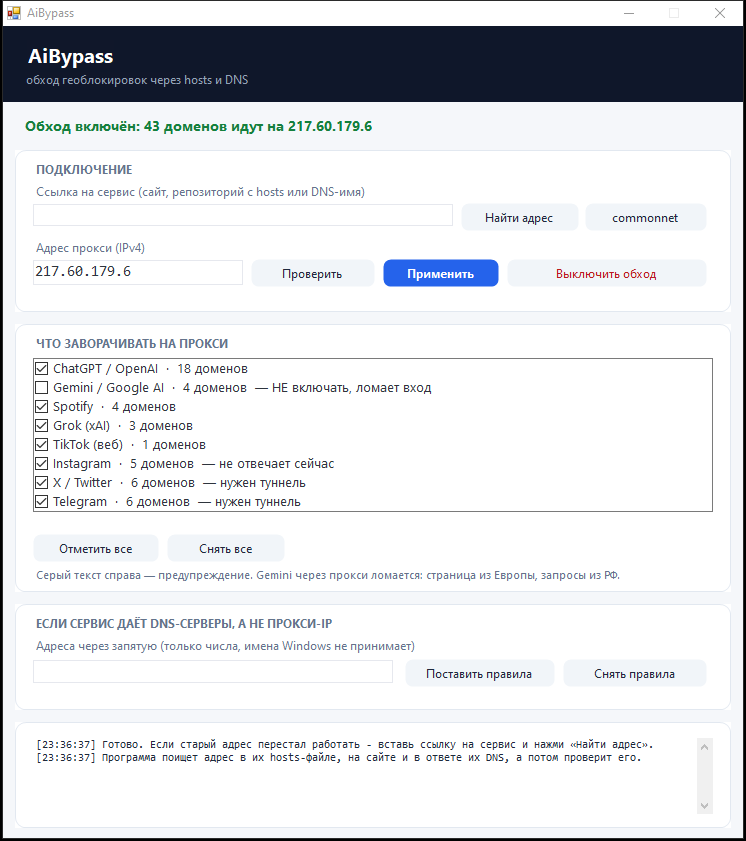
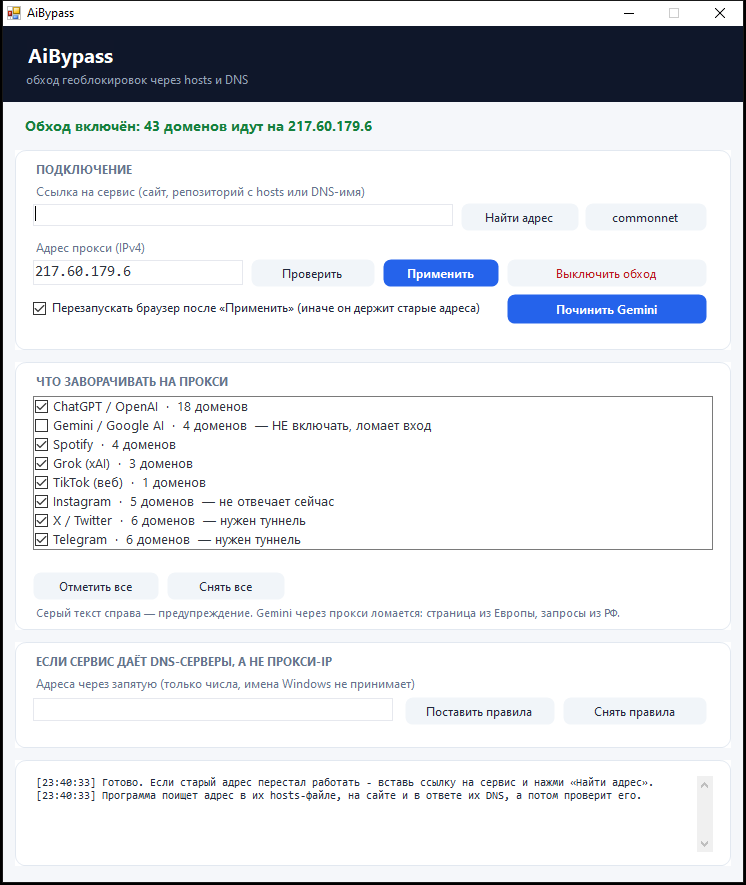
Перезапуск браузера из программы и кнопка «Починить Gemini»
Браузер держит свой DNS-кэш и пул соединений в памяти: после смены адресов он
продолжает ходить по старым, и ipconfig /flushdns этого не лечит. На телефоне
ту же работу делает режим полёта — на ПК её теперь делает программа:

- галочка «Перезапускать браузер после «Применить»» (включена по умолчанию)
- кнопка «Починить Gemini»: убрать Gemini из hosts, сбросить кэш DNS,
  перезапустить браузер, открыть gemini.google.com
- команды --fix-gemini, --restart-browser, --browsers
- закрываются Chrome, Edge, Firefox, Opera, Яндекс, Brave, Vivaldi:
  сначала CloseMainWindow, через 5 секунд Kill, потом запуск заново

Проверено на notepad (--restart-proc): процесс закрылся и запустился заново,
путь к exe определился. Браузер заказчика при проверке не трогал.

diff --git a/src/Gui.cs b/src/Gui.cs
@@ -139,12 +139,13 @@ namespace AiBypass
         private static TextBox dnsBox;
         private static TextBox log;
         private static CheckedListBox serviceList;
+        private static CheckBox restartBrowser;
 
         public static void Run()
         {
             form = new Form();
             form.Text = "AiBypass";
-            form.ClientSize = new Size(740, 812);
+            form.ClientSize = new Size(740, 856);
             form.StartPosition = FormStartPosition.CenterScreen;
             form.FormBorderStyle = FormBorderStyle.FixedSingle;
             form.MaximizeBox = false;
@@ -210,7 +211,7 @@ namespace AiBypass
         {
             CardPanel card = new CardPanel();
             card.Title = "ПОДКЛЮЧЕНИЕ";
-            card.SetBounds(12, 124, 716, 162);
+            card.SetBounds(12, 124, 716, 200);
             form.Controls.Add(card);
 
             Label l0 = new Label();
@@ -256,13 +257,27 @@ namespace AiBypass
             FlatButton bOff = MakeButton("Выключить обход", 492, 109, 200, 28, OnOff);
             bOff.TextColor = Theme.Danger;
             card.Controls.Add(bOff);
+
+            restartBrowser = new CheckBox();
+            restartBrowser.Text = "Перезапускать браузер после «Применить» (иначе он держит старые адреса)";
+            restartBrowser.SetBounds(18, 148, 460, 22);
+            restartBrowser.ForeColor = Theme.Text;
+            restartBrowser.Checked = true;
+            card.Controls.Add(restartBrowser);
+
+            FlatButton bFix = MakeButton("Починить Gemini", 492, 144, 200, 30, OnFixGemini);
+            bFix.FillNormal = Theme.Accent;
+            bFix.FillHover = Theme.AccentHover;
+            bFix.TextColor = Color.White;
+            bFix.Font = new Font("Segoe UI", 9f, FontStyle.Bold);
+            card.Controls.Add(bFix);
         }
 
         private static void BuildServicesCard()
         {
             CardPanel card = new CardPanel();
             card.Title = "ЧТО ЗАВОРАЧИВАТЬ НА ПРОКСИ";
-            card.SetBounds(12, 298, 716, 268);
+            card.SetBounds(12, 336, 716, 268);
             form.Controls.Add(card);
 
             serviceList = new CheckedListBox();
@@ -295,7 +310,7 @@ namespace AiBypass
         {
             CardPanel card = new CardPanel();
             card.Title = "ЕСЛИ СЕРВИС ДАЁТ DNS-СЕРВЕРЫ, А НЕ ПРОКСИ-IP";
-            card.SetBounds(12, 578, 716, 106);
+            card.SetBounds(12, 616, 716, 106);
             form.Controls.Add(card);
 
             Label l = new Label();
@@ -320,7 +335,7 @@ namespace AiBypass
         private static void BuildLogCard()
         {
             CardPanel card = new CardPanel();
-            card.SetBounds(12, 696, 716, 106);
+            card.SetBounds(12, 734, 716, 106);
             form.Controls.Add(card);
 
             log = new TextBox();
@@ -530,8 +545,72 @@ namespace AiBypass
                 SaveSelection();
                 Write("Прописал " + domains.Length + " доменов на " + ip + ". Бэкап hosts сохранён.");
                 RefreshState();
+
+                if (restartBrowser.Checked)
+                {
+                    Write("Перезапускаю браузер: он держит свой DNS-кэш и старые соединения...");
+                    Application.DoEvents();
+                    List<string> logLines = new List<string>();
+                    List<string> done = Core.RestartProcesses(Core.BrowserProcesses, logLines, false);
+                    for (int i = 0; i < logLines.Count; i++) { Write("  " + logLines[i]); }
+                    if (done.Count == 0) { Write("  запущенных браузеров не нашёл - перезапусти сам, если открыт."); }
+                }
             }
             catch (Exception ex) { Write("Не вышло: " + ex.Message); }
+        }
+
+        // Одна кнопка на случай «Gemini открывается, но запросы не обрабатываются»:
+        // убираем Gemini с прокси, сбрасываем кэш DNS, перезапускаем браузер и открываем сайт.
+        private static void OnFixGemini(object sender, EventArgs e)
+        {
+            try
+            {
+                Write("--- Чиню Gemini ---");
+                string ip = ipBox.Text.Trim();
+                if (!Core.IsValidIp(ip)) { ip = Core.CurrentProxyIp(); }
+
+                string[] domains = DomainsWithoutGemini();
+                Write("Убираю Gemini с прокси, остальные сервисы оставляю (доменов: " + domains.Length + ").");
+                Core.ApplyHosts(ip, domains);
+                Core.FlushDns();
+
+                for (int i = 0; i < Services.Count; i++)
+                {
+                    if (Services.All[i].Name.IndexOf("Gemini", StringComparison.OrdinalIgnoreCase) >= 0)
+                    {
+                        serviceList.SetItemChecked(i, false);
+                    }
+                }
+                SaveSelection();
+                RefreshState();
+
+                Write("Перезапускаю браузер - это и есть аналог режима полёта на телефоне.");
+                Write("Если в браузере есть несохранённые формы, они пропадут.");
+                Application.DoEvents();
+
+                List<string> logLines = new List<string>();
+                List<string> done = Core.RestartProcesses(Core.BrowserProcesses, logLines, true);
+                for (int i = 0; i < logLines.Count; i++) { Write("  " + logLines[i]); }
+
+                if (done.Count == 0) { Write("  запущенных браузеров не нашёл - открой gemini.google.com вручную."); }
+                Write("Готово. В hosts " + Core.CurrentDomainCount() + " доменов, Gemini идёт напрямую.");
+            }
+            catch (Exception ex) { Write("Не вышло: " + ex.Message); }
+        }
+
+        // домены всех сервисов, кроме отмеченных как «не включать»
+        private static string[] DomainsWithoutGemini()
+        {
+            List<string> outp = new List<string>();
+            for (int i = 0; i < Services.Count; i++)
+            {
+                if (Services.All[i].Status == ServiceStatus.DoNotEnable) { continue; }
+                for (int j = 0; j < Services.All[i].Domains.Length; j++)
+                {
+                    if (!outp.Contains(Services.All[i].Domains[j])) { outp.Add(Services.All[i].Domains[j]); }
+                }
+            }
+            return outp.ToArray();
         }
 
         private static void OnOff(object sender, EventArgs e)

diff --git a/src/Core.cs b/src/Core.cs
@@ -595,6 +595,120 @@ namespace AiBypass
             return "";
         }
 
+        // ---------- перезапуск браузера ----------
+
+        // Браузер держит свой DNS-кэш и пул открытых соединений в памяти: после смены адресов
+        // он продолжает ходить по старым. Закрыть процесс — единственный надёжный способ
+        // сбросить это без перезагрузки машины (на телефоне то же делает режим полёта).
+        public static readonly string[] BrowserProcesses = new string[]
+        {
+            "chrome", "msedge", "firefox", "opera", "brave", "vivaldi", "browser", "yandex"
+        };
+
+        public static List<string> RunningProcesses(string[] names)
+        {
+            List<string> found = new List<string>();
+            for (int i = 0; i < names.Length; i++)
+            {
+                try
+                {
+                    Process[] ps = Process.GetProcessesByName(names[i]);
+                    if (ps.Length > 0) { found.Add(names[i]); }
+                }
+                catch { }
+            }
+            return found;
+        }
+
+        // Возвращает имена процессов, которые были закрыты и запущены заново.
+        public static List<string> RestartProcesses(string[] names, List<string> log, bool openGemini)
+        {
+            List<string> done = new List<string>();
+
+            for (int i = 0; i < names.Length; i++)
+            {
+                string name = names[i];
+                Process[] ps;
+                try { ps = Process.GetProcessesByName(name); }
+                catch { continue; }
+                if (ps.Length == 0) { continue; }
+
+                string exe = "";
+                try
+                {
+                    for (int k = 0; k < ps.Length; k++)
+                    {
+                        try
+                        {
+                            if (ps[k].MainModule != null) { exe = ps[k].MainModule.FileName; break; }
+                        }
+                        catch { }
+                    }
+                }
+                catch { }
+
+                log.Add("закрываю " + name + (ps.Length > 1 ? " (" + ps.Length + " процессов)" : ""));
+
+                // сначала вежливо: просим окна закрыться, чтобы браузер сохранил сессию
+                for (int k = 0; k < ps.Length; k++)
+                {
+                    try { if (ps[k].MainWindowHandle != IntPtr.Zero) { ps[k].CloseMainWindow(); } }
+                    catch { }
+                }
+
+                DateTime deadline = DateTime.Now.AddSeconds(5);
+                while (DateTime.Now < deadline)
+                {
+                    bool alive = false;
+                    for (int k = 0; k < ps.Length; k++)
+                    {
+                        try { if (!ps[k].HasExited) { alive = true; break; } }
+                        catch { }
+                    }
+                    if (!alive) { break; }
+                    System.Threading.Thread.Sleep(300);
+                }
+
+                // что осталось — закрываем силой
+                int killed = 0;
+                for (int k = 0; k < ps.Length; k++)
+                {
+                    try { if (!ps[k].HasExited) { ps[k].Kill(); killed++; } }
+                    catch { }
+                }
+                if (killed > 0) { log.Add("  принудительно закрыто процессов: " + killed); }
+
+                System.Threading.Thread.Sleep(700);
+
+                if (exe.Length > 0)
+                {
+                    try
+                    {
+                        Process.Start(exe);
+                        done.Add(name);
+                        log.Add("  запустил заново: " + exe);
+                    }
+                    catch (Exception ex) { log.Add("  не смог запустить заново: " + Short(ex.Message)); }
+                }
+                else
+                {
+                    log.Add("  путь к exe не определился - запусти " + name + " сам");
+                }
+            }
+
+            if (openGemini)
+            {
+                try
+                {
+                    Process.Start("https://gemini.google.com/");
+                    log.Add("открыл gemini.google.com");
+                }
+                catch (Exception ex) { log.Add("не смог открыть сайт: " + Short(ex.Message)); }
+            }
+
+            return done;
+        }
+
         // ---------- правила DNS (NRPT) ----------
 
         public static string RunPowerShell(string script)

diff --git a/src/Program.cs b/src/Program.cs
@@ -141,6 +141,45 @@ namespace AiBypass
                             return 0;
                         }
 
+                    case "--browsers":
+                        {
+                            List<string> run = Core.RunningProcesses(Core.BrowserProcesses);
+                            Console.WriteLine(run.Count == 0 ? "браузеры не запущены" : "запущены: " + string.Join(", ", run.ToArray()));
+                            return 0;
+                        }
+
+                    case "--restart-browser":
+                        {
+                            List<string> lines = new List<string>();
+                            List<string> done = Core.RestartProcesses(Core.BrowserProcesses, lines, false);
+                            for (int i = 0; i < lines.Count; i++) { Console.WriteLine(lines[i]); }
+                            Console.WriteLine("перезапущено: " + done.Count);
+                            return 0;
+                        }
+
+                    case "--restart-proc":
+                        {
+                            if (args.Length < 2) { Console.WriteLine("нужно имя процесса"); return 2; }
+                            List<string> lines = new List<string>();
+                            Core.RestartProcesses(new string[] { args[1] }, lines, false);
+                            for (int i = 0; i < lines.Count; i++) { Console.WriteLine(lines[i]); }
+                            return 0;
+                        }
+
+                    case "--fix-gemini":
+                        {
+                            string ip = Core.CurrentProxyIp();
+                            if (ip.Length == 0 && args.Length >= 2) { ip = args[1]; }
+                            if (ip.Length == 0) { Console.WriteLine("сейчас обход выключен - укажи адрес"); return 2; }
+                            List<string> domains = Services.DefaultDomains();
+                            Core.ApplyHosts(ip, domains.ToArray());
+                            Console.WriteLine("Gemini убран с прокси, доменов " + domains.Count + " на " + ip);
+                            List<string> lines = new List<string>();
+                            Core.RestartProcesses(Core.BrowserProcesses, lines, true);
+                            for (int i = 0; i < lines.Count; i++) { Console.WriteLine(lines[i]); }
+                            return 0;
+                        }
+
                     case "--off":
                         Core.OffHosts();
                         Console.WriteLine("блок снят");
@@ -211,6 +250,9 @@ namespace AiBypass
             Console.WriteLine("  --off                   снять блок из hosts");
             Console.WriteLine("  --find <ссылка|домен>   найти адрес прокси по ссылке на сервис");
             Console.WriteLine("  --github                найти адрес в репозитории commonnet");
+            Console.WriteLine("  --fix-gemini            убрать Gemini с прокси, сбросить кэш DNS и перезапустить браузер");
+            Console.WriteLine("  --restart-browser       перезапустить браузер (сбросить его кэш адресов)");
+            Console.WriteLine("  --browsers              какие браузеры сейчас запущены");
             Console.WriteLine("  --nrpt-set <ip,ip>      поставить правила DNS");
             Console.WriteLine("  --nrpt-off              снять правила DNS");
             Console.WriteLine("  --version               версия");

diff --git a/CHANGELOG.md b/CHANGELOG.md
@@ -9,6 +9,18 @@
 
 ### Добавлено
 
+* **Перезапуск браузера прямо из программы.** Браузер держит собственный DNS-кэш и пул
+  открытых соединений в памяти, поэтому после смены адресов продолжает ходить по старым
+  и `ipconfig /flushdns` этого не лечит. На телефоне ту же работу делает режим полёта.
+  Теперь у программы есть галочка «Перезапускать браузер после «Применить»» (включена
+  по умолчанию) и отдельная команда `--restart-browser`. Закрываются Chrome, Edge, Firefox,
+  Opera, Яндекс, Brave, Vivaldi — сначала вежливо (`CloseMainWindow`), через 5 секунд
+  принудительно, потом запускаются заново.
+* **Кнопка «Починить Gemini»** и команда `--fix-gemini`: убирает домены Gemini из `hosts`,
+  сбрасывает кэш DNS, перезапускает браузер и открывает `gemini.google.com` — одно нажатие
+  вместо ручной последовательности.
+* Команда `--browsers` — какие браузеры сейчас запущены.
+
 * **Галочки по сервисам.** Раньше список доменов был жёстко зашит и включался целиком.
   Теперь в окне список из восьми сервисов, каждый можно включить или выключить отдельно,
   а выбор запоминается в `selected.txt` рядом с exe. По умолчанию включено всё.
